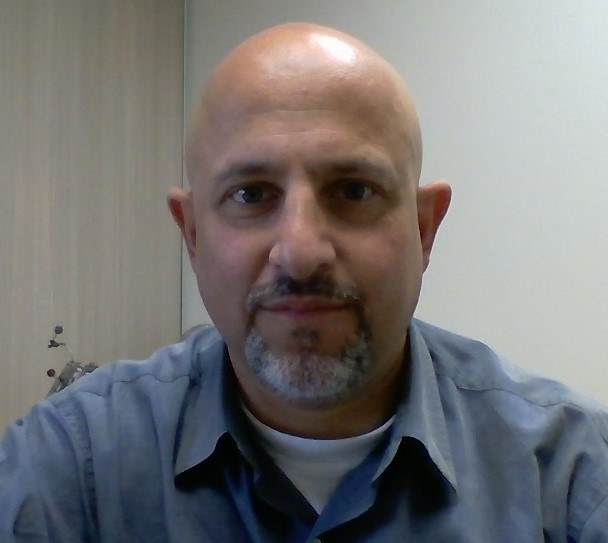
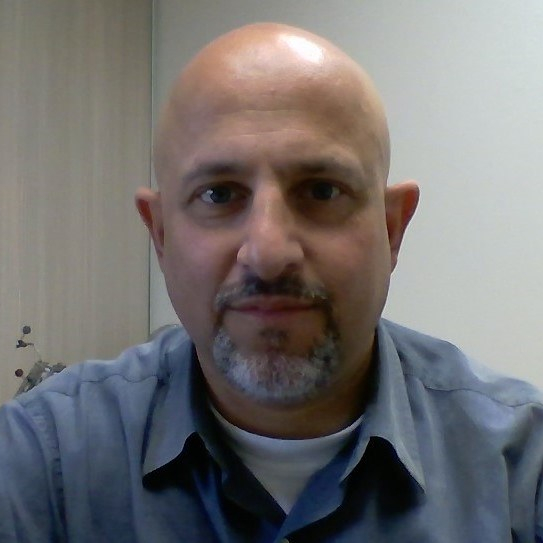
fix demetris surname and photo, fix hackthecrisis group name to match the same as the slack, replaced the images with the cloudinary link

diff --git a/index.html b/index.html
@@ -324,7 +324,7 @@
                             <div class="panel schedule-item">
 
                                 <h6 class="title">Meet online on the <a href="https://hackcyprus.slack.com">hack
-                                    {cyprus} slack</a> and join the hackthecrisis prep group to meet, exchange ideas
+                                    {cyprus} slack</a> and join the #hackthecrisisCyprus prep group to meet, exchange ideas
                                     and form teams. </h6>
 
                             </div>
@@ -722,12 +722,12 @@
                     <h6>Demetris<br>Antoniades</h6>
                 </div>
                 <div class="col-sm-2 col-xs-6">
-                    <img src="assets/img/mentors/dimitrish.jpg">
-                    <h6>Demetris<br>Antoniades</h6>
+                    <img src="https://res.cloudinary.com/hackcyprus/image/upload/v1585803649/hackthecrisis/mentors/dimitrish.jpg">
+                    <h6>Demetris<br>Hadjisofokli</h6>
                 </div>
 
                 <div class="col-sm-2 col-xs-6">
-                    <img src="assets/img/mentors/elizabeth.jpg">
+                    <img src="https://res.cloudinary.com/hackcyprus/image/upload/v1585803650/hackthecrisis/mentors/elizabeth.jpg">
                     <br>
                     <h6>Elizabeth<br>Kassinis</h6>
                 </div>
@@ -736,12 +736,12 @@
                     <h6>Eva<br>Korae</h6>
                 </div>
                 <div class="col-sm-2 col-xs-6">
-                    <img src="assets/img/mentors/hariton.jpg">
+                    <img src="https://res.cloudinary.com/hackcyprus/image/upload/v1585803650/hackthecrisis/mentors/hariton.jpg">
                     <br>
                     <h6>Hariton<br>Efstathiades</h6>
                 </div>
                 <div class="col-sm-2 col-xs-6">
-                    <img src="assets/img/mentors/monica.jpg">
+                    <img src="https://res.cloudinary.com/hackcyprus/image/upload/v1585803650/hackthecrisis/mentors/monica.jpg">
                     <br>
                     <h6>Monica Ioannidou Polemitis </h6>
                 </div>
@@ -756,18 +756,18 @@
                     <h6>Nicholas<br>Loulloudes</h6>
                 </div>
                 <div class="col-sm-2 col-xs-6">
-                    <img src="assets/img/mentors/panagiotis.jpg">
+                    <img src="https://res.cloudinary.com/hackcyprus/image/upload/v1585803650/hackthecrisis/mentors/panagiotis.jpg">
                     <br>
                     <h6>Panayiotis<br>Charalambous </h6>
                 </div>
                 <div class="col-sm-2 col-xs-6">
-                    <img src="assets/img/mentors/stelios.jpg">
+                    <img src="https://res.cloudinary.com/hackcyprus/image/upload/v1585803649/hackthecrisis/mentors/stelios.jpg">
                     <br>
                     <h6>Stelios<br>Yiallouros</h6>
                 </div>
 
                 <div class="col-sm-2 col-xs-6">
-                    <img src="assets/img/mentors/sotiris.jpg">
+                    <img src="https://res.cloudinary.com/hackcyprus/image/upload/v1585803649/hackthecrisis/mentors/sotiris.jpg">
                     <br>
                     <h6>Sotiris<br>Themistocleous</h6>
                 </div>
@@ -777,12 +777,12 @@
                     <h6>Valentinos<br>Georgiades</h6>
                 </div>
                 <div class="col-sm-2 col-xs-6">
-                    <img src="assets/img/mentors/vassos.jpg">
+                    <img src="https://res.cloudinary.com/hackcyprus/image/upload/v1585803649/hackthecrisis/mentors/vassos.jpg">
                     <br>
                     <h6>Vasos<br>Vassiliou </h6>
                 </div>
                 <div class="col-sm-2 col-xs-6">
-                    <img src="assets/img/mentors/yiorgos.jpg">
+                    <img src="https://res.cloudinary.com/hackcyprus/image/upload/v1585803649/hackthecrisis/mentors/yiorgos.jpg">
                     <br>
                     <h6>Yiorgos<br>Chrysanthou </h6>
                 </div>
